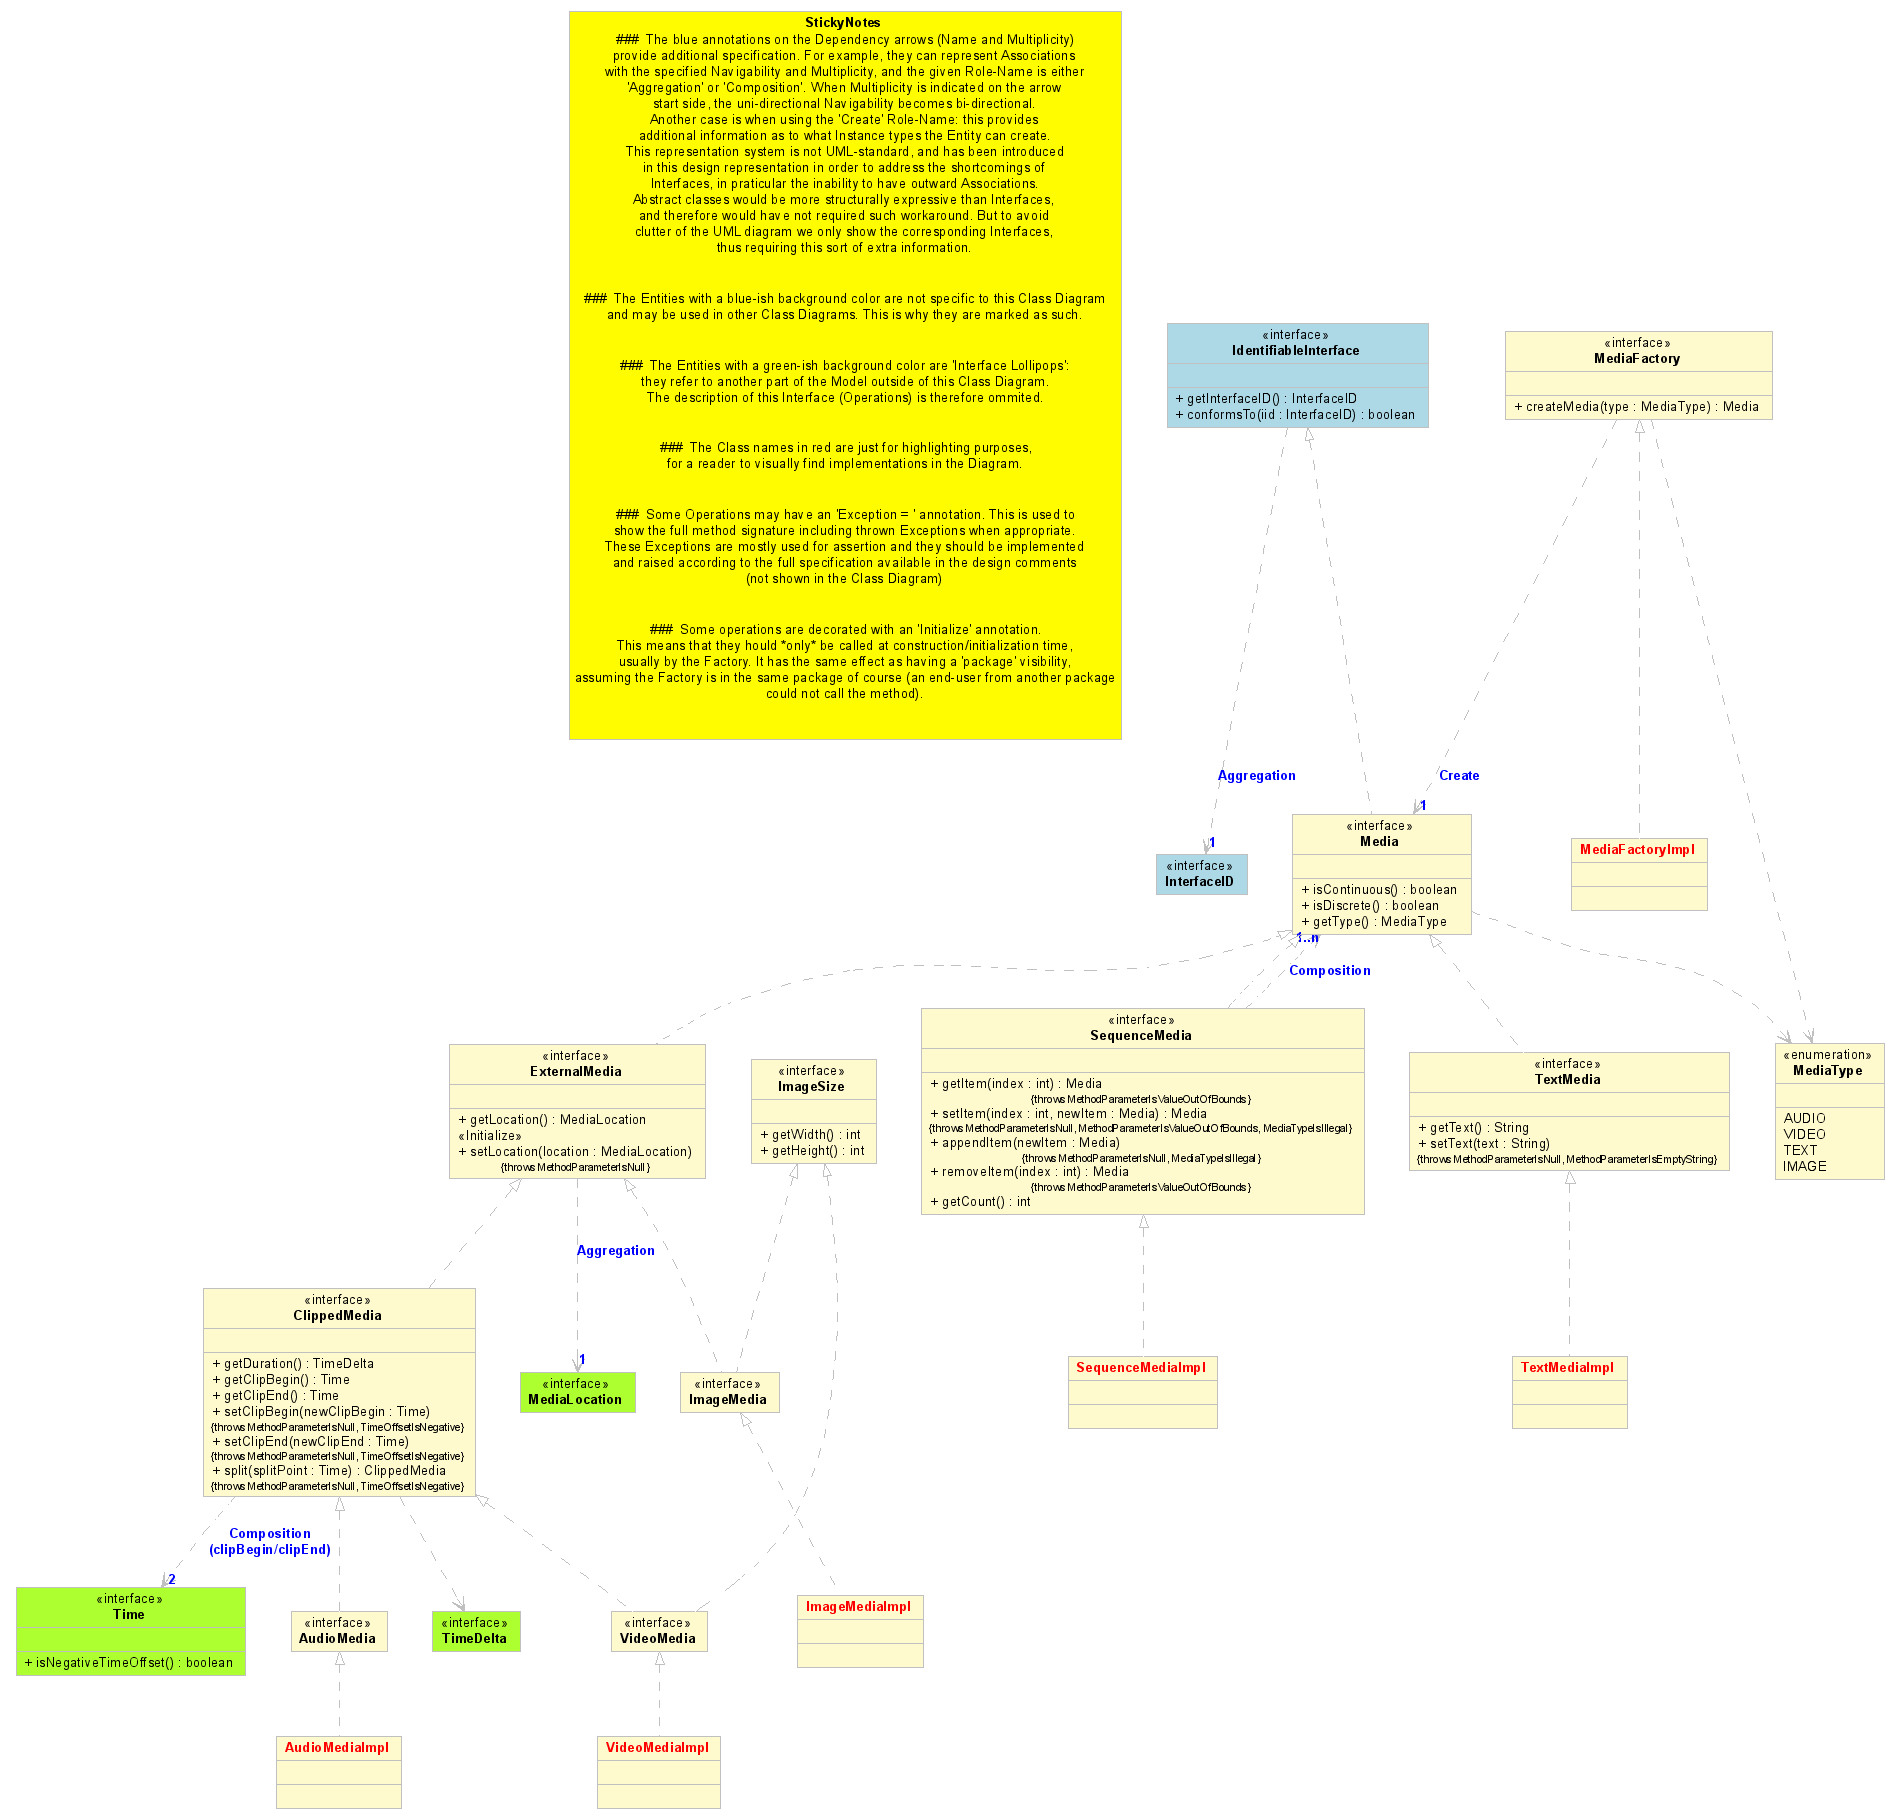
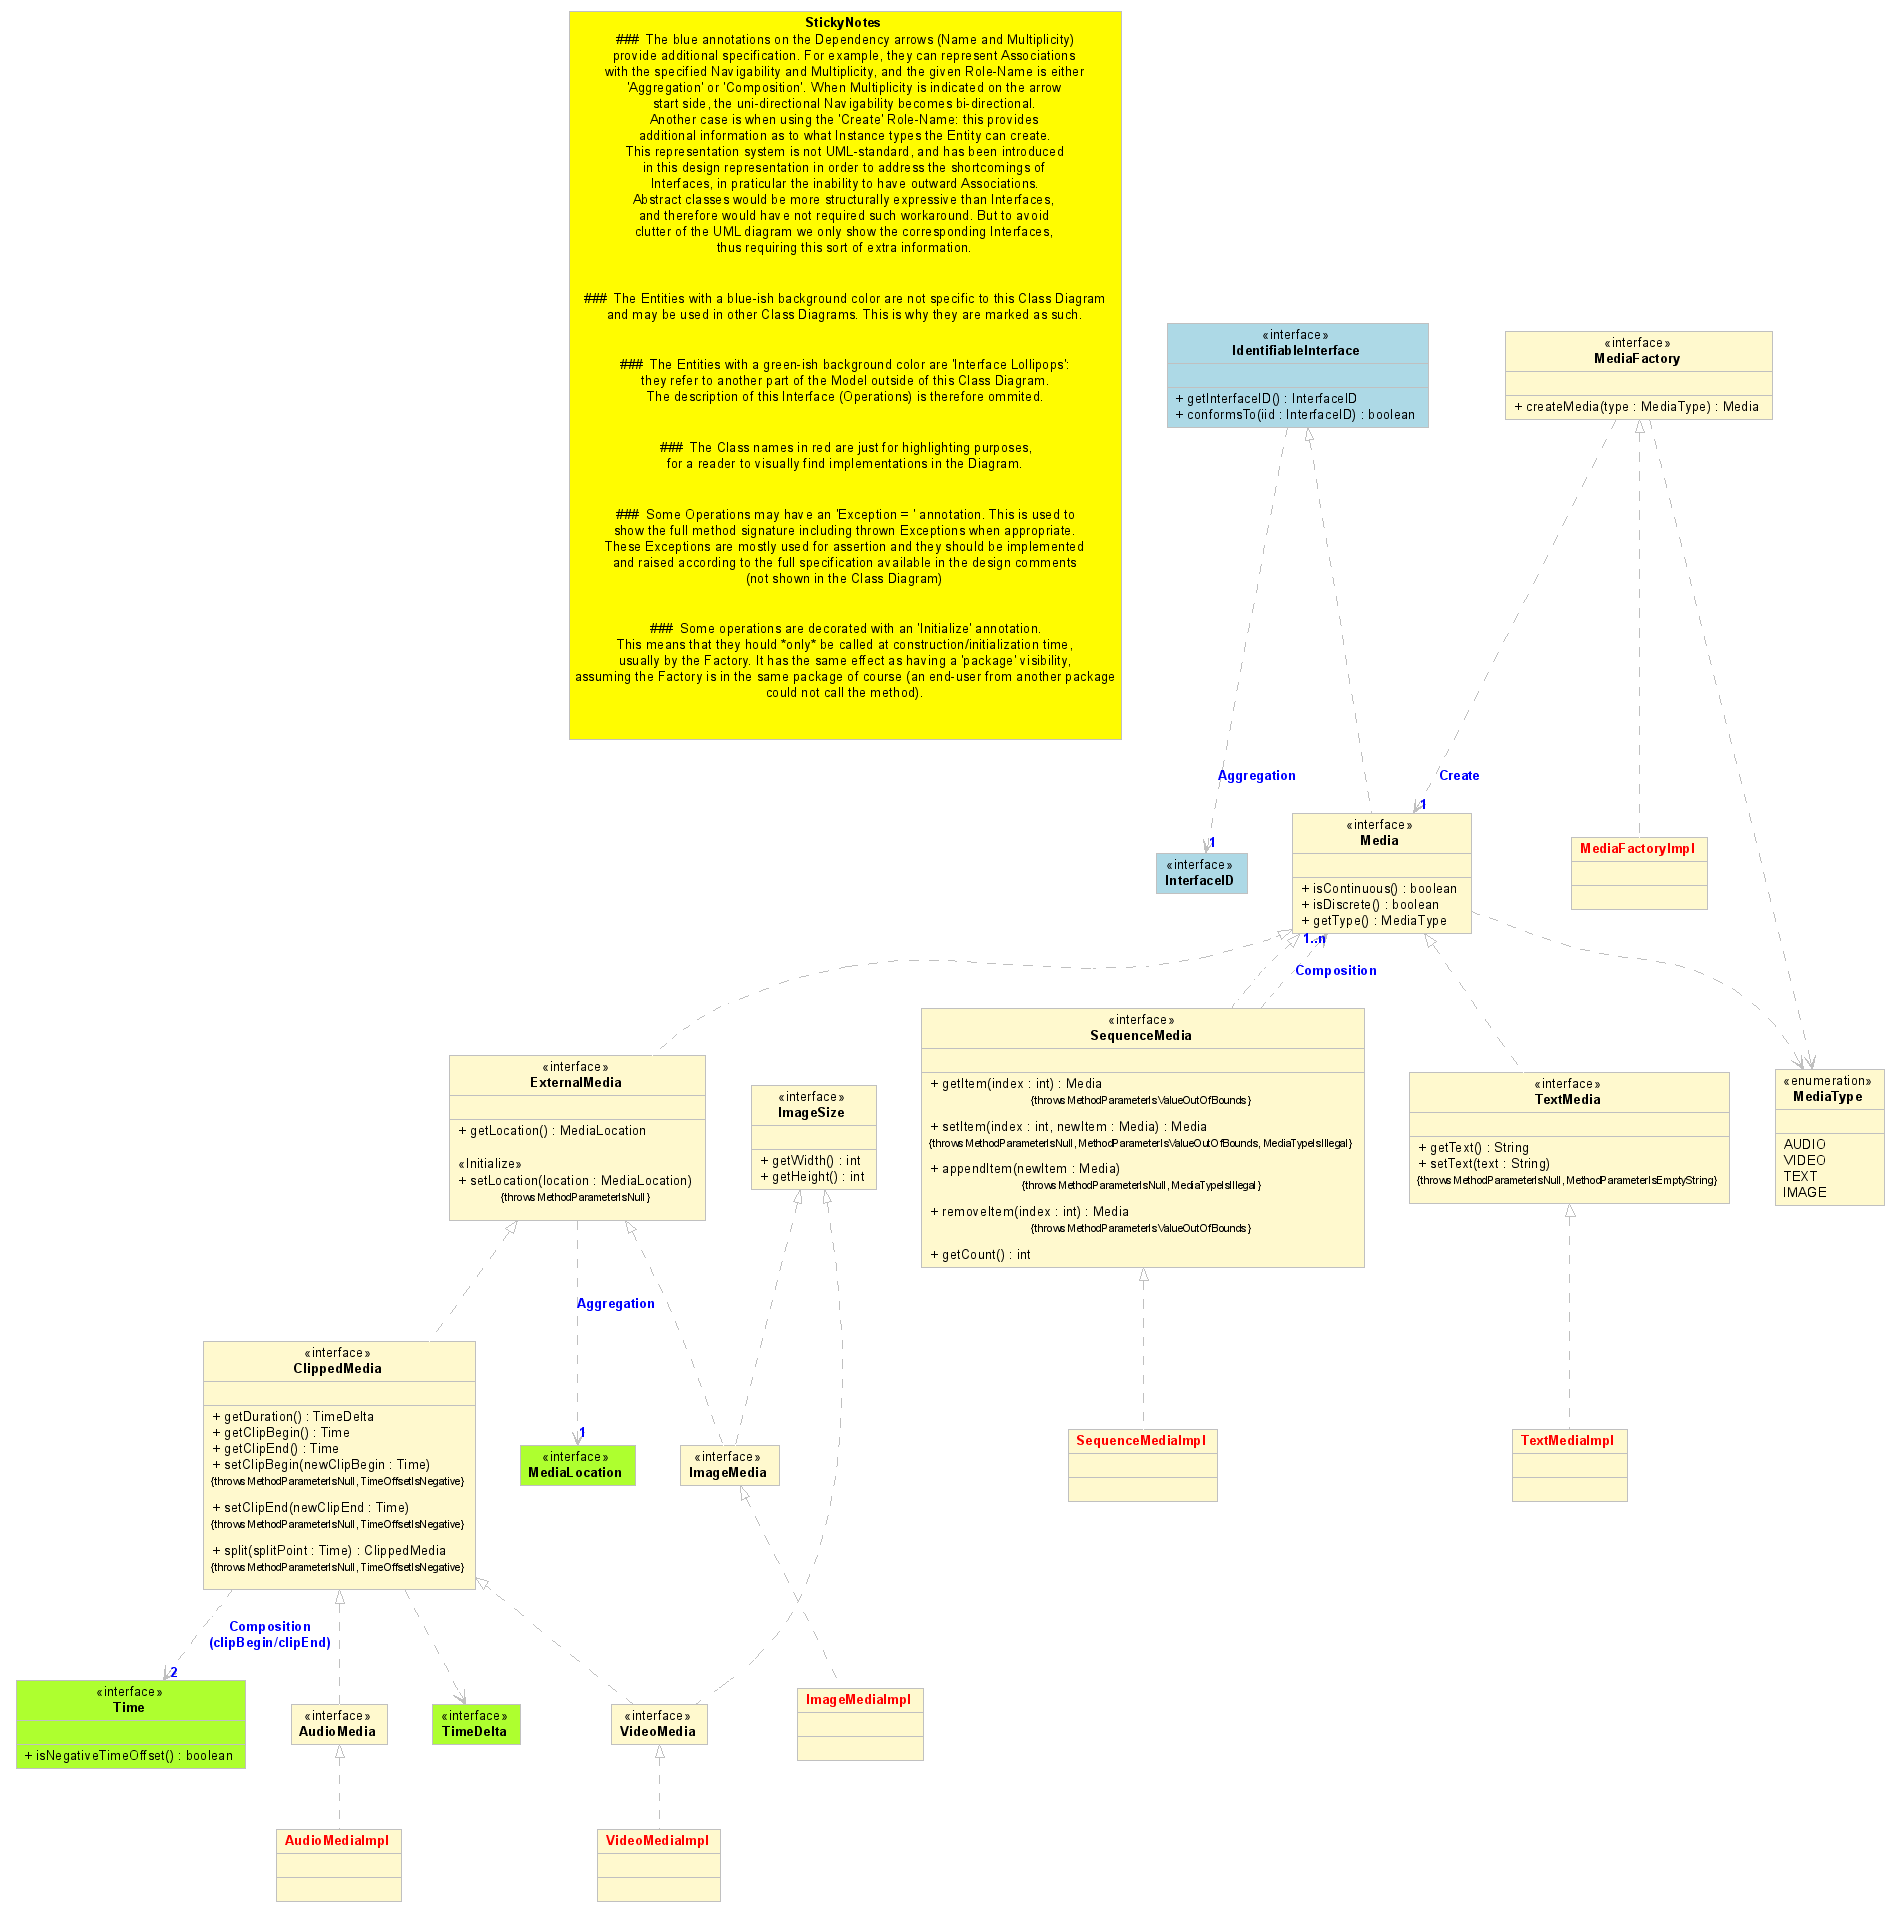
- Daniel WECK * Cosmetic arrangements, and now SED post-processor uses an external script.

diff --git a/java/UMLGraph/src/org/daisy/urakawa/media/ClippedMedia.java b/java/UMLGraph/src/org/daisy/urakawa/media/ClippedMedia.java
@@ -9,11 +9,39 @@ import org.daisy.urakawa.exceptions.TimeOffsetIsNegativeException;
  * Because the clipping at begin and end can be 0, this is essence defines
  * what a ContinuousMedia is (e.g. there is no standalone "ContinuousMedia" interface).
  * The default clipping is therefore 0.
- * 
+ *
  * @depend - "Composition\n(clipBegin/clipEnd)" 2 Time
  * @depend - - - TimeDelta
  */
 public interface ClippedMedia extends ExternalMedia {
+    /**
+     * Sets the clip-begin time
+     *
+     * @param newClipBegin cannot be null, cannot correspond to a negative offset value
+     * @tagvalue Exceptions "MethodParameterIsNull, TimeOffsetIsNegative"
+     * @see #getClipBegin()
+     */
+    public void setClipBegin(Time newClipBegin) throws MethodParameterIsNullException, TimeOffsetIsNegativeException;
+
+    /**
+     * Sets the clip-end time
+     *
+     * @param newClipEnd cannot be null, cannot correspond to a negative offset value
+     * @tagvalue Exceptions "MethodParameterIsNull, TimeOffsetIsNegative"
+     * @see #getClipEnd()
+     */
+    public void setClipEnd(Time newClipEnd) throws MethodParameterIsNullException, TimeOffsetIsNegativeException;
+
+    /**
+     * Splits the ClippedMedia at the given split point relative to the clip-begin.
+     * After execution the instance represents the ClippedMedia before the split timepoint.
+     *
+     * @param splitPoint cannot be null, cannot correspond to a negative offset value, Must correspond to a value < {@link #getDuration()} otherwise no split happens
+     * @return the ClippedMedia after the split timepoint, or null if sliptPoint is an illegal value (> {@link #getDuration()}).
+     * @tagvalue Exceptions "MethodParameterIsNull, TimeOffsetIsNegative"
+     */
+    public ClippedMedia split(Time splitPoint) throws MethodParameterIsNullException, TimeOffsetIsNegativeException;
+
     /**
      * @return the duration of the ClippedMedia (time between {@link #getClipEnd()} and {@link #getClipBegin()} markers). value in ms is > 0
      */
@@ -28,32 +56,4 @@ public interface ClippedMedia extends ExternalMedia {
      * @return the clip-end time >= 0 (relative to the end of the media asset). Default is a zero value.
      */
     public Time getClipEnd();
-
-    /**
-     * Sets the clip-begin time
-     *
-     * @param newClipBegin cannot be null, cannot correspond to a negative offset value
-     * @see #getClipBegin()
-     * @tagvalue Exceptions "MethodParameterIsNull, TimeOffsetIsNegative"
-     */
-    public void setClipBegin(Time newClipBegin) throws MethodParameterIsNullException, TimeOffsetIsNegativeException;
-
-    /**
-     * Sets the clip-end time
-     *
-     * @param newClipEnd cannot be null, cannot correspond to a negative offset value
-     * @see #getClipEnd()
-     * @tagvalue Exceptions "MethodParameterIsNull, TimeOffsetIsNegative"
-     */
-    public void setClipEnd(Time newClipEnd) throws MethodParameterIsNullException, TimeOffsetIsNegativeException;
-
-    /**
-     * Splits the ClippedMedia at the given split point relative to the clip-begin.
-     * After execution the instance represents the ClippedMedia before the split timepoint.
-     *
-     * @param splitPoint cannot be null, cannot correspond to a negative offset value, Must correspond to a value < {@link #getDuration()} otherwise no split happens 
-     * @return the ClippedMedia after the split timepoint, or null if sliptPoint is an illegal value (> {@link #getDuration()}).
-     * @tagvalue Exceptions "MethodParameterIsNull, TimeOffsetIsNegative"
-     */
-    public ClippedMedia split(Time splitPoint) throws MethodParameterIsNullException, TimeOffsetIsNegativeException;
 }

diff --git a/java/UMLGraph/src/org/daisy/urakawa/media/ExternalMedia.java b/java/UMLGraph/src/org/daisy/urakawa/media/ExternalMedia.java
@@ -7,18 +7,19 @@ import org.daisy.urakawa.exceptions.MethodParameterIsNullException;
  */
 public interface ExternalMedia extends Media {
     /**
-     * @return the abstract location. Cannot be NULL.
-     */
-    public MediaLocation getLocation();
-
-    /**
      * Sets the abstract location.
      * Should *only* be used at construction/initialization time (using the Factory).
      * (visibility is "public" because it's mandatory in Interfaces, but it would rather be "package"
      * so that only the Factory can call this method, not the end-user).
-     * @stereotype Initialize
+     *
      * @param location Cannot be null
+     * @stereotype Initialize
      * @tagvalue Exceptions MethodParameterIsNull
      */
     public void setLocation(MediaLocation location) throws MethodParameterIsNullException;
+
+    /**
+     * @return the abstract location. Cannot be NULL.
+     */
+    public MediaLocation getLocation();
 }

diff --git a/java/UMLGraph/src/org/daisy/urakawa/media/TextMedia.java b/java/UMLGraph/src/org/daisy/urakawa/media/TextMedia.java
@@ -9,15 +9,14 @@ import org.daisy.urakawa.exceptions.MethodParameterIsNullException;
  * {@link Media#getType()} should return MediaType.TEXT
  */
 public interface TextMedia extends Media {
-
-    /**
-     * @return the text. Cannot be NULL or empty String.
-     */
-    public String getText();
-
     /**
      * @param text Cannot be NULL or empty String.
      * @tagvalue Exceptions "MethodParameterIsNull, MethodParameterIsEmptyString"
      */
     public void setText(String text) throws MethodParameterIsNullException, MethodParameterIsEmptyStringException;
+
+    /**
+     * @return the text. Cannot be NULL or empty String.
+     */
+    public String getText();
 }
